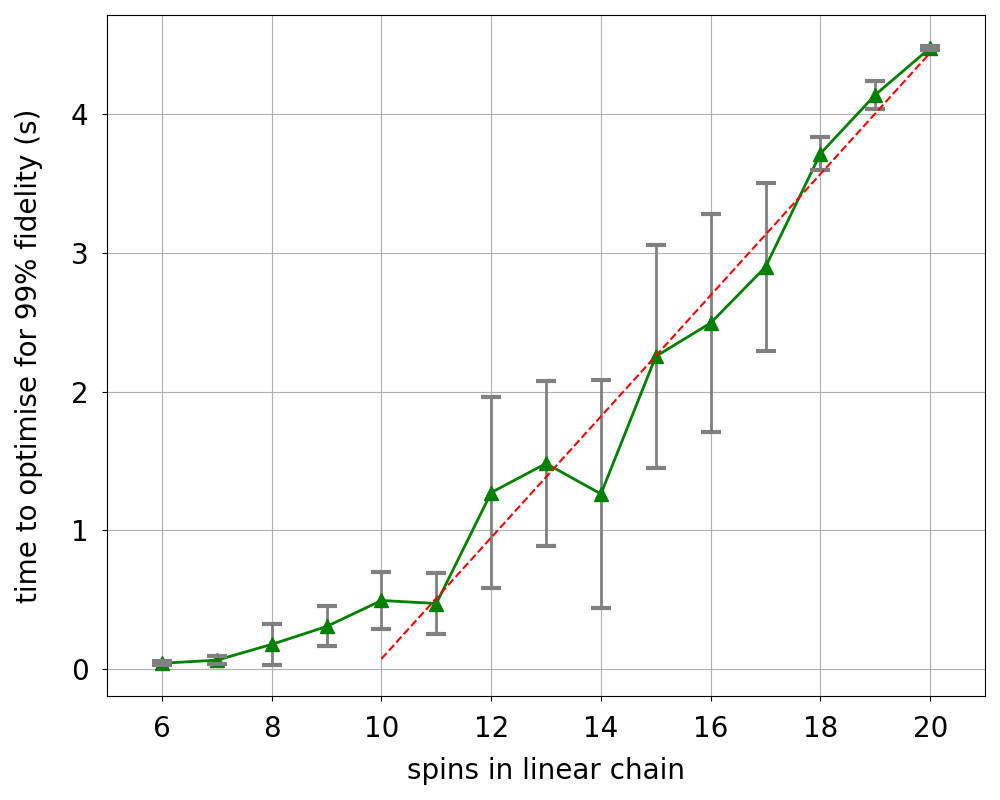
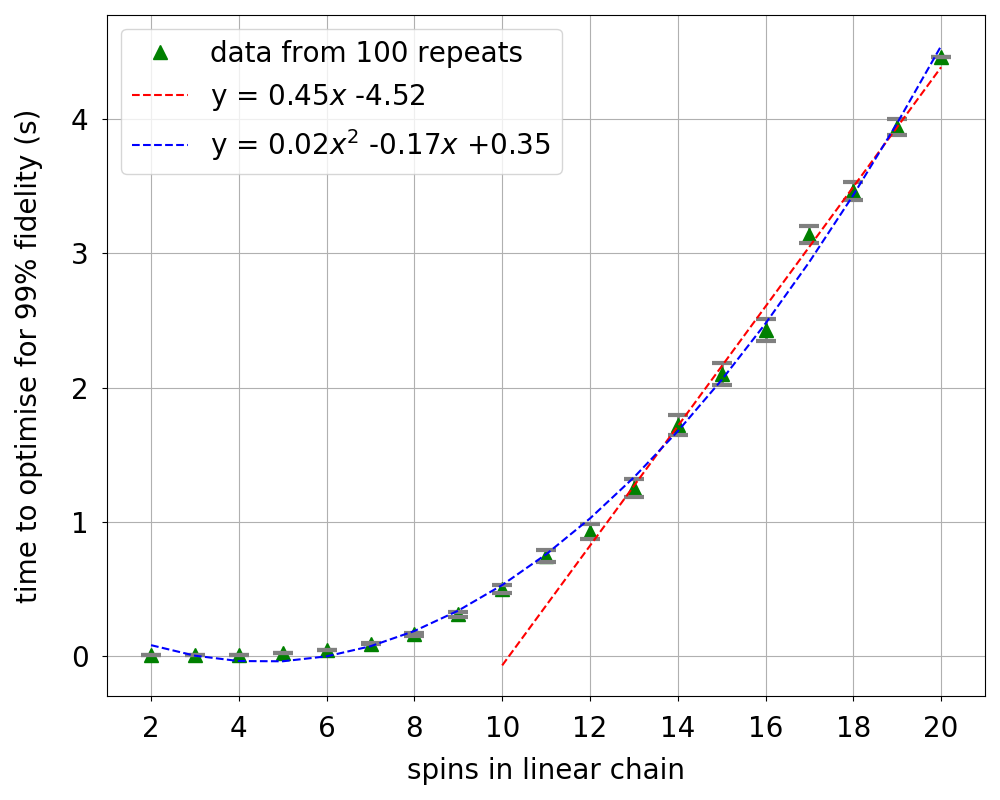
now doesn't break if your PC's language is set to Spanish

diff --git a/src/sites.py b/src/sites.py
@@ -27,21 +27,56 @@ avgs = []
 errors = []
 for vals in times:
     mean = sum(vals) / len(vals)
-    sd = math.sqrt(sum([(x-mean)**2 for x in vals]))
+    sd = math.sqrt(sum([(x-mean)**2 for x in vals]) / (len(vals)-1))
     err = sd / sqrt(len(vals))
     avgs.append(mean)
     errors.append(err)
 
 # Plot each line
-plt.plot(numSites, avgs, "-g^", ms=10, lw=2, label="1 excitation (left end to right end)")
+plt.plot(numSites, avgs, "g^", ms=10, lw=2, label="data from 100 repeats")
 plt.errorbar(numSites, avgs, yerr=errors, fmt="none", color='grey', elinewidth=2,capthick=3,capsize=7)
 
-# Line of best fit
-# coef = np.polyfit(numSites,avgs,1,w=[1/a for a in errors])
-# coef = np.polyfit(numSites,avgs,1)
-coef = np.polyfit(numSites,avgs,1,w=[i for i, a in enumerate(errors)])
+rounding = 3
+
+# Linear regression
+start = 10
+coef = np.polyfit(numSites[start:],avgs[start:],1)
 poly1d_fn = np.poly1d(coef) 
-plt.plot(numSites[4:], poly1d_fn(numSites[4:]), '--r')
+linear = ("y = "  
+                + '{0:.2f}'.format(round(coef[0],2)) + r"$x$" + " "
+                + '{0:+.2f}'.format(round(coef[1],2)))
+plt.plot(numSites[start:], poly1d_fn(numSites[start:]), '--r', label=linear)
+
+# Quadratic regression
+# from scipy.optimize import curve_fit
+# def f(x, a, b):
+    # return a*np.exp(b*x)
+# coef, o = curve_fit(f, numSites[0:10], avgs[0:10])
+# quadratic = ("y = "  
+                # + '{0:.3f}'.format(round(coef[0],rounding)) + r"$x^2$" + " "
+                # + '{0:+.3f}'.format(round(coef[1],rounding)))
+# plt.plot(numSites[0:10], f(np.array(numSites[0:10]), coef[0], coef[1]), '--b', label=quadratic)
+# def f(x, a, b):
+    # return a*(x**2)+b*x
+# coef, o = curve_fit(f, numSites, avgs)
+# quadratic = ("y = "  
+                # + '{0:.3f}'.format(round(coef[0],rounding)) + r"$x^2$" + " "
+                # + '{0:+.3f}'.format(round(coef[1],rounding)) + r"$x$")
+# plt.plot(numSites, f(np.array(numSites), coef[0], coef[1]), '--r', label=quadratic)
+# def f(x, a):
+    # return a*(x**2)
+# coef, o = curve_fit(f, numSites, avgs)
+# quadratic = ("y = "  
+                # + '{0:.3f}'.format(round(coef[0],rounding)) + r"$x^2$")
+# plt.plot(numSites, f(np.array(numSites), coef[0]), '--k', label=quadratic)
+
+# Exponential regression
+# coef = np.polyfit(numSites,np.log(avgs),1,w=numSites)
+# y = np.exp(coef[1]) * np.exp(coef[0]*np.array(numSites))
+# expo = ("y = "  
+                # + '{0:.2f}'.format(round(np.exp(coef[1]),2)) + " "
+                # + r"$e^{"+ '{0:.2f}'.format(round(coef[0],2)) + r"}$")
+# plt.plot(numSites, y, '--k', label=expo)
 
 # Set the size of the axis ticks
 ax1.tick_params(axis='y', pad=10, labelsize=20)
@@ -55,6 +90,8 @@ ax1.set_xlabel("spins in linear chain", labelpad=10)
 ax1.set_ylabel("time to optimise for 99% fidelity (s)", labelpad=20)
 plt.xlim(min(numSites)-1, max(numSites)+1)
 ax1.xaxis.set_major_locator(MaxNLocator(integer=True))
+
+plt.legend(prop={'size': 20})
 
 # Nicer spacing
 plt.tight_layout()
